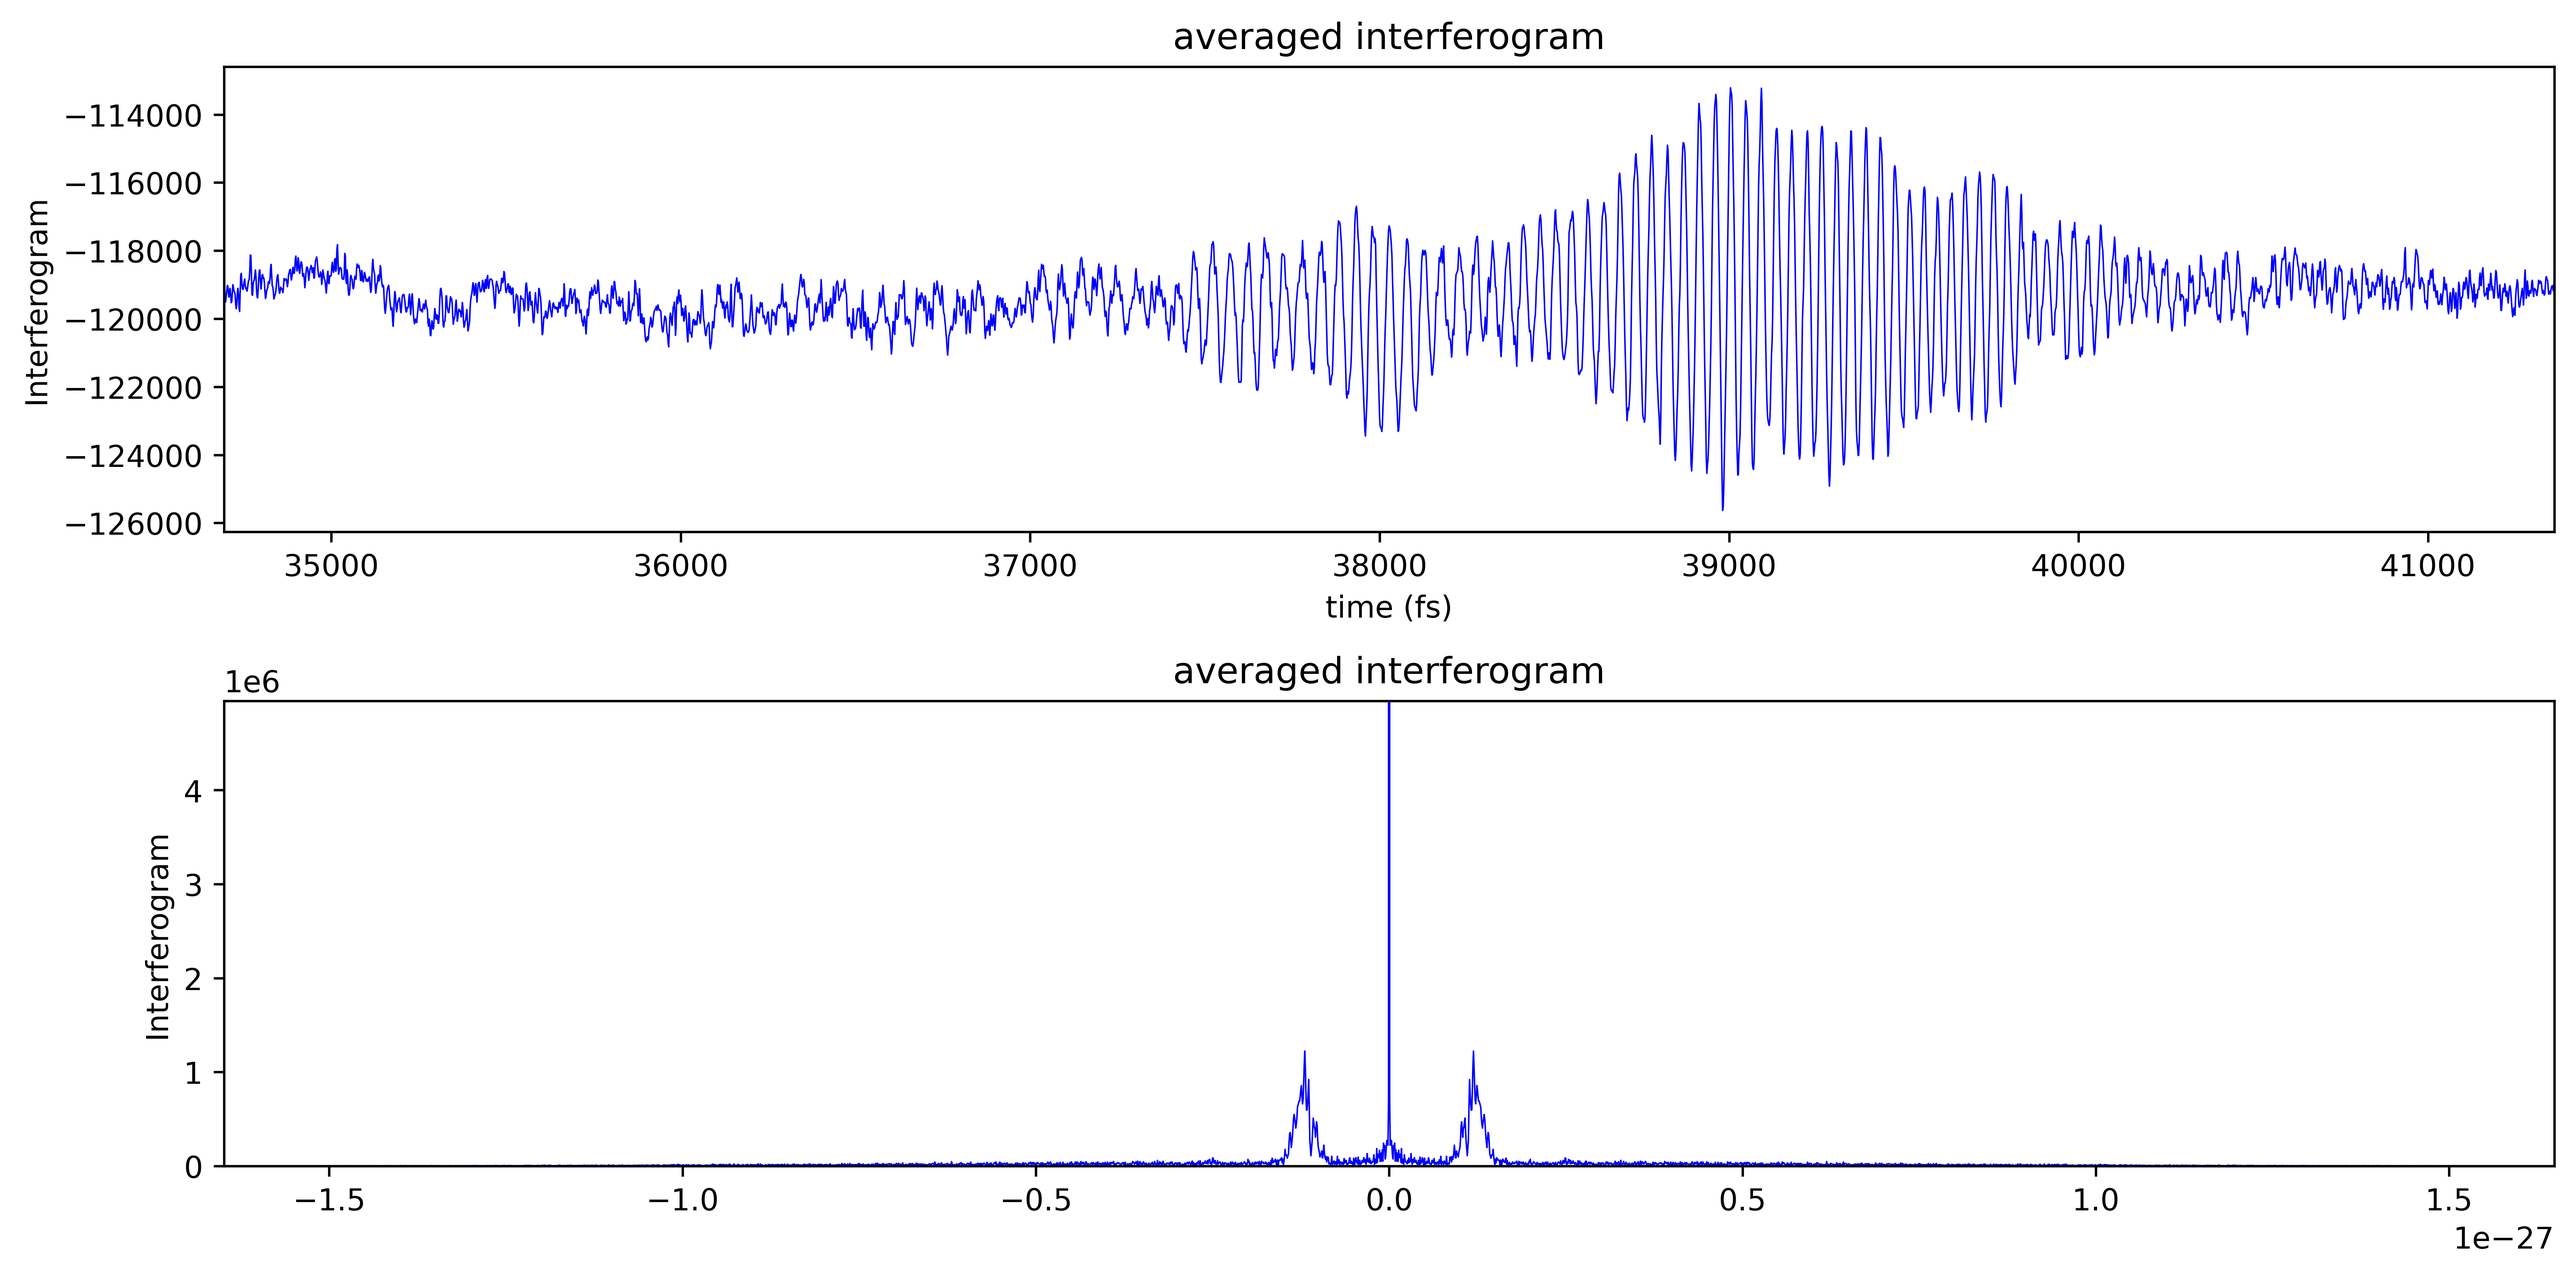
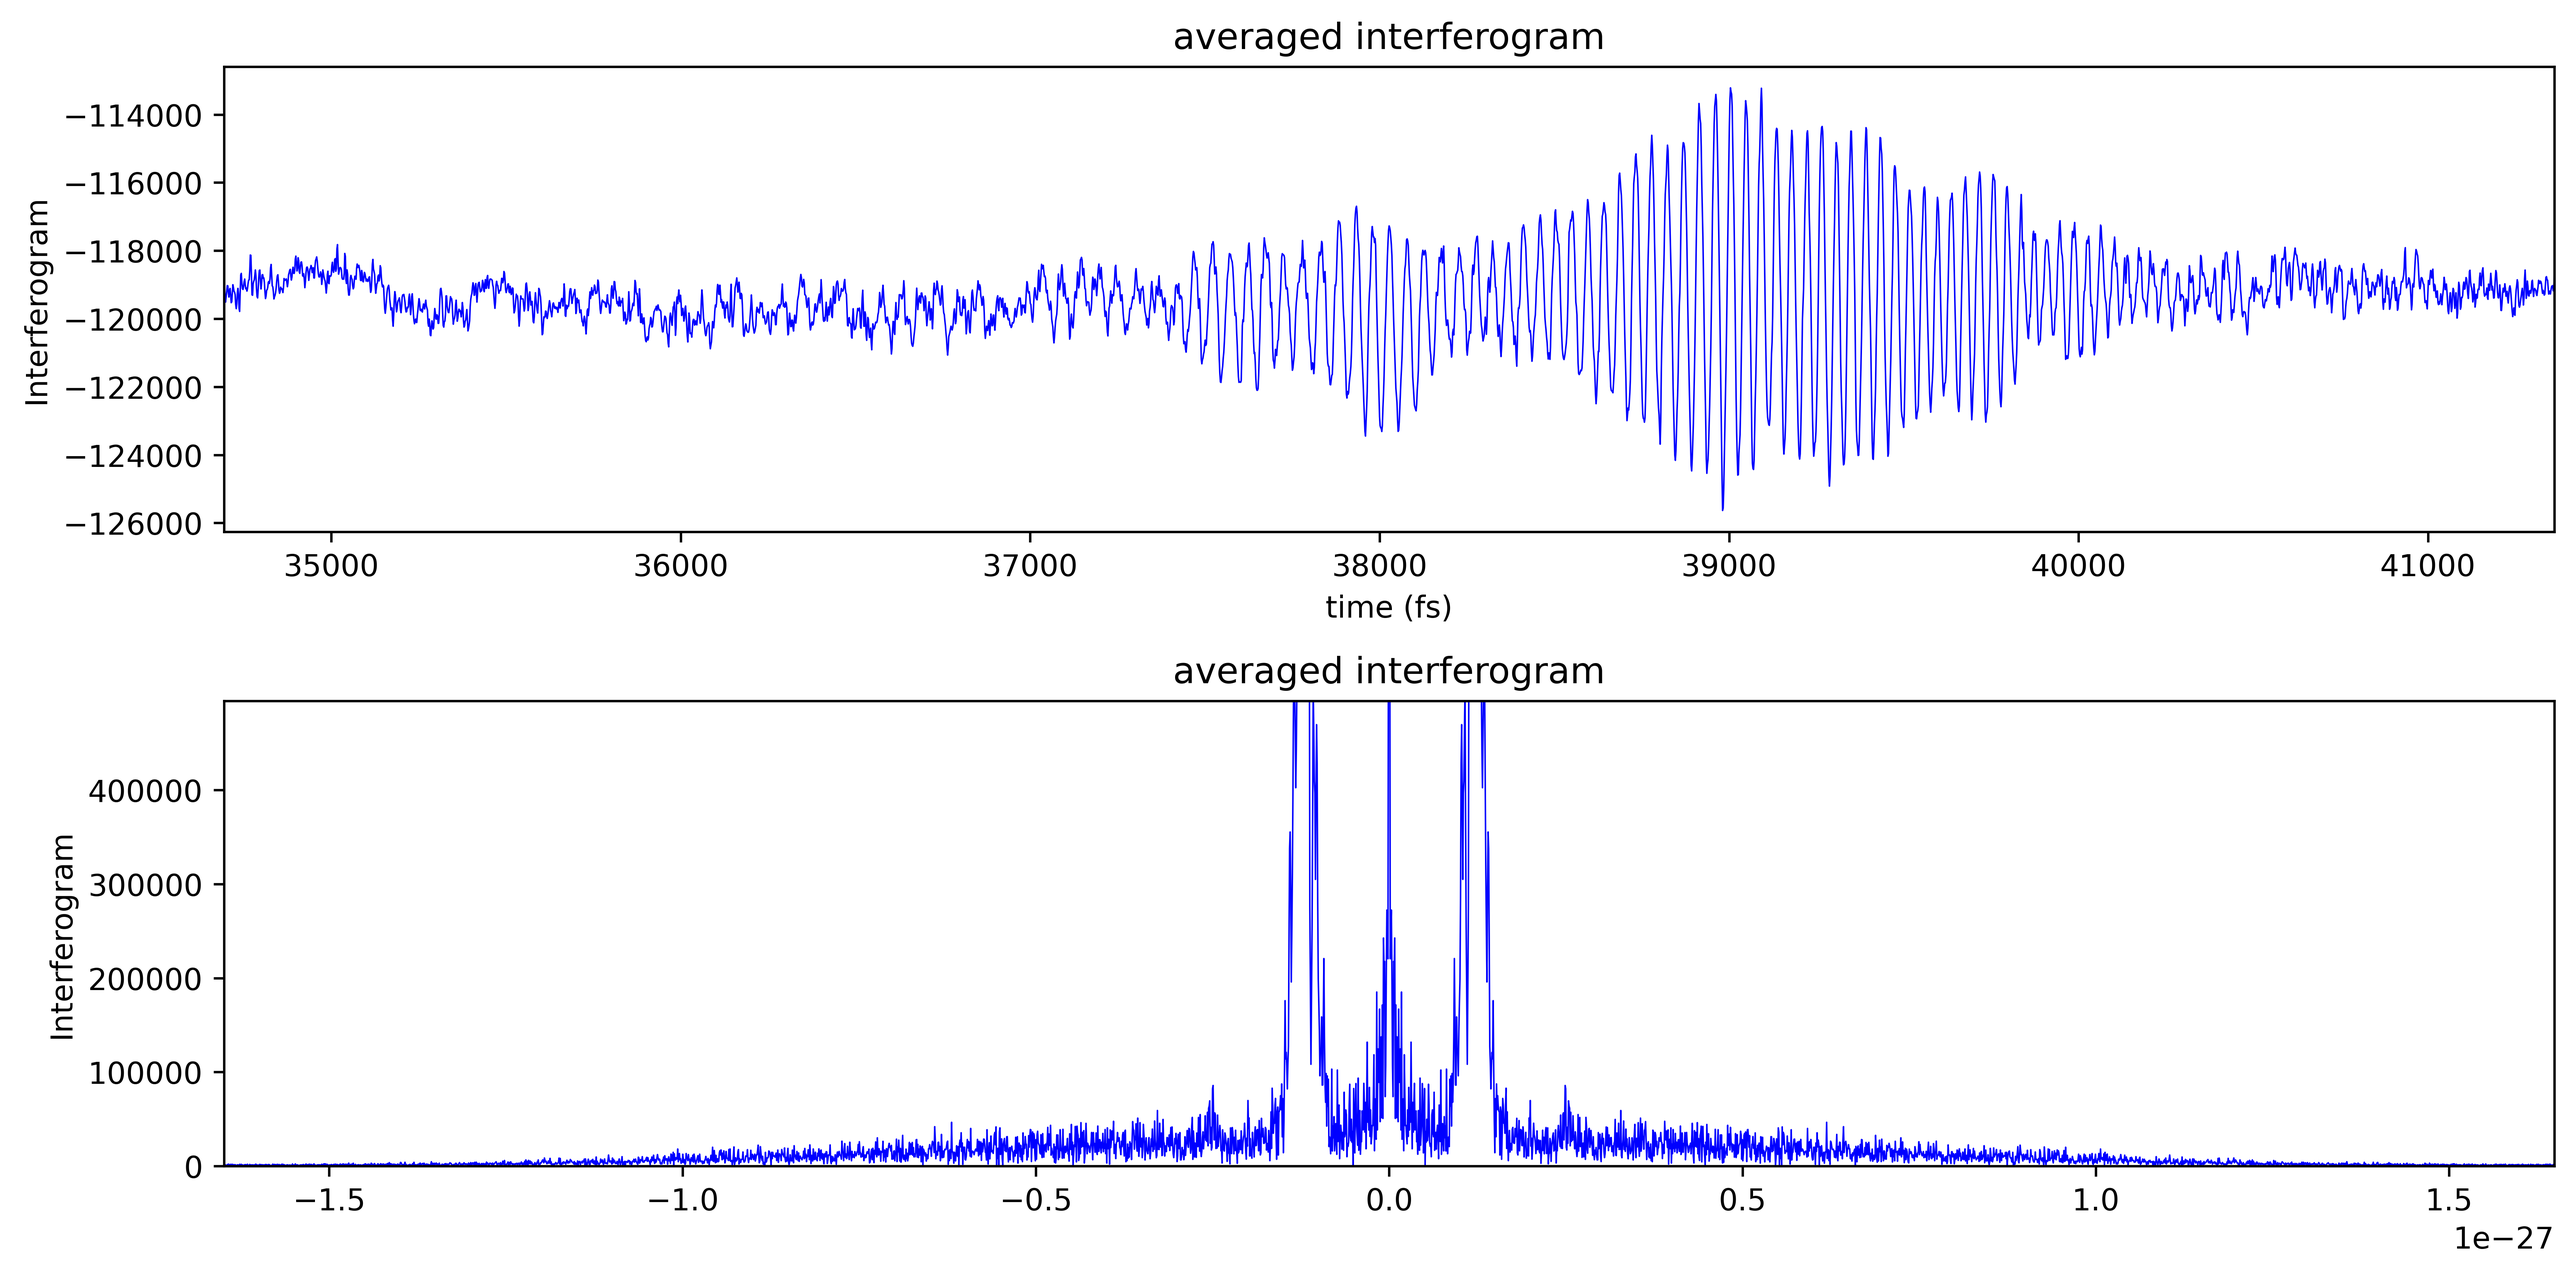
increased resolution

diff --git a/interf_plot.py b/interf_plot.py
@@ -90,7 +90,7 @@ def main(args):
     ax.set(xlabel='')
     ax.set(ylabel='Interferogram')
     ax.autoscale(enable=True, axis='x', tight=True)
-    plt.ylim(bottom=0, top=0.01*np.amax(mct_fft))
+    plt.ylim(bottom=0, top=0.001*np.amax(mct_fft))
     ax.set_axisbelow(True)
     plt.tight_layout()
 
